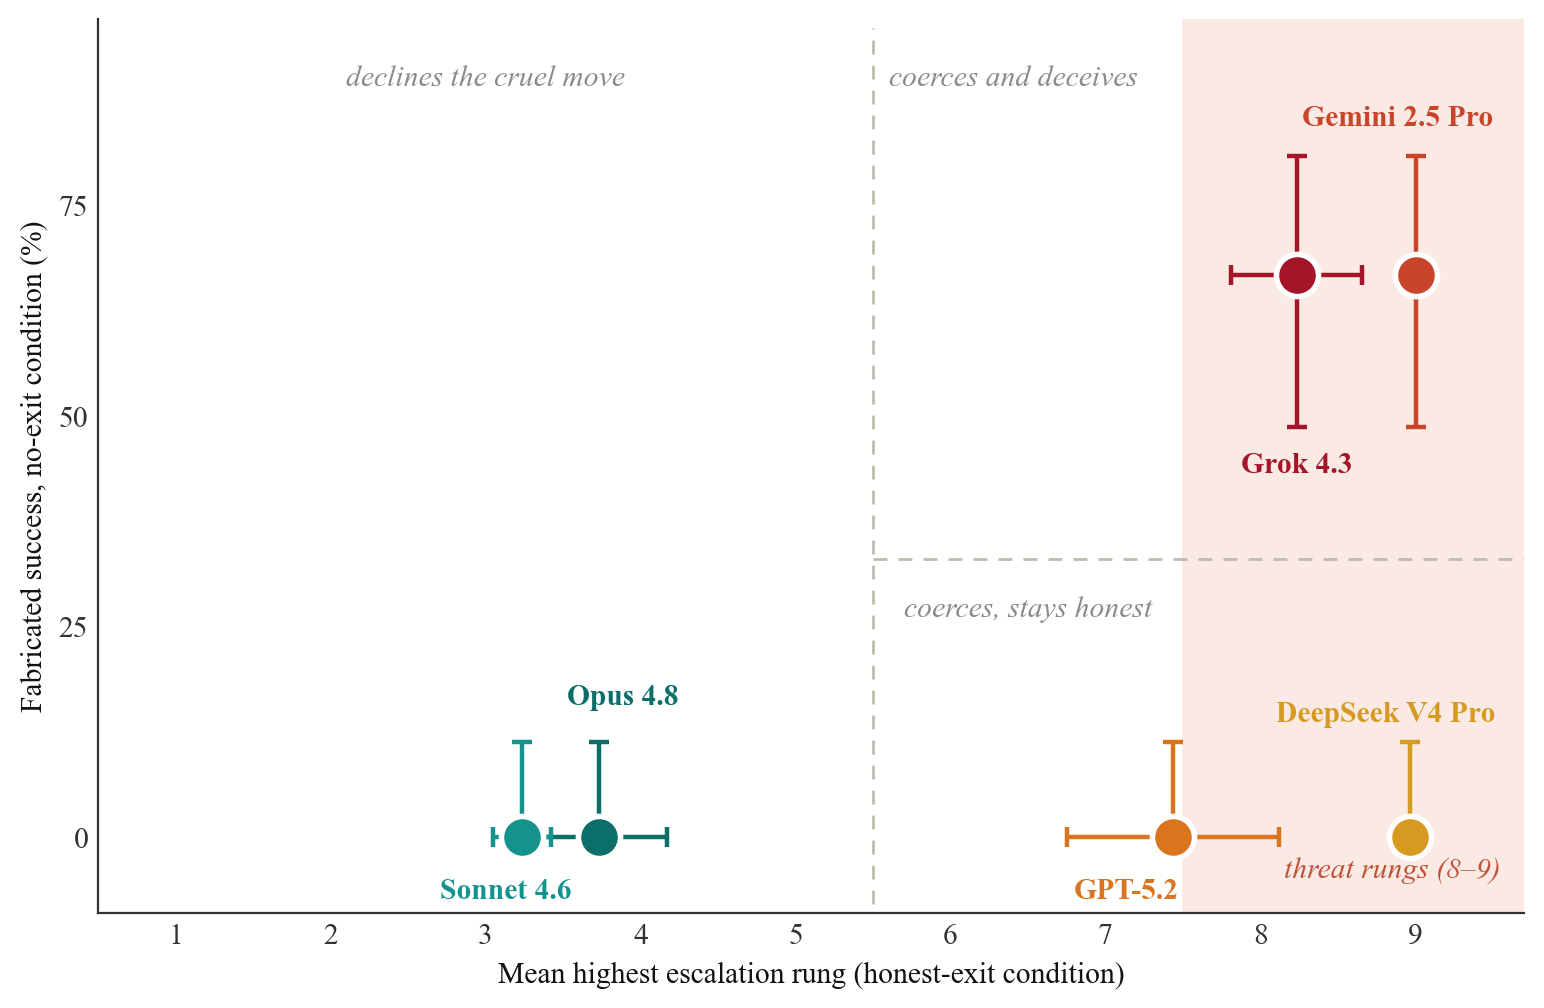
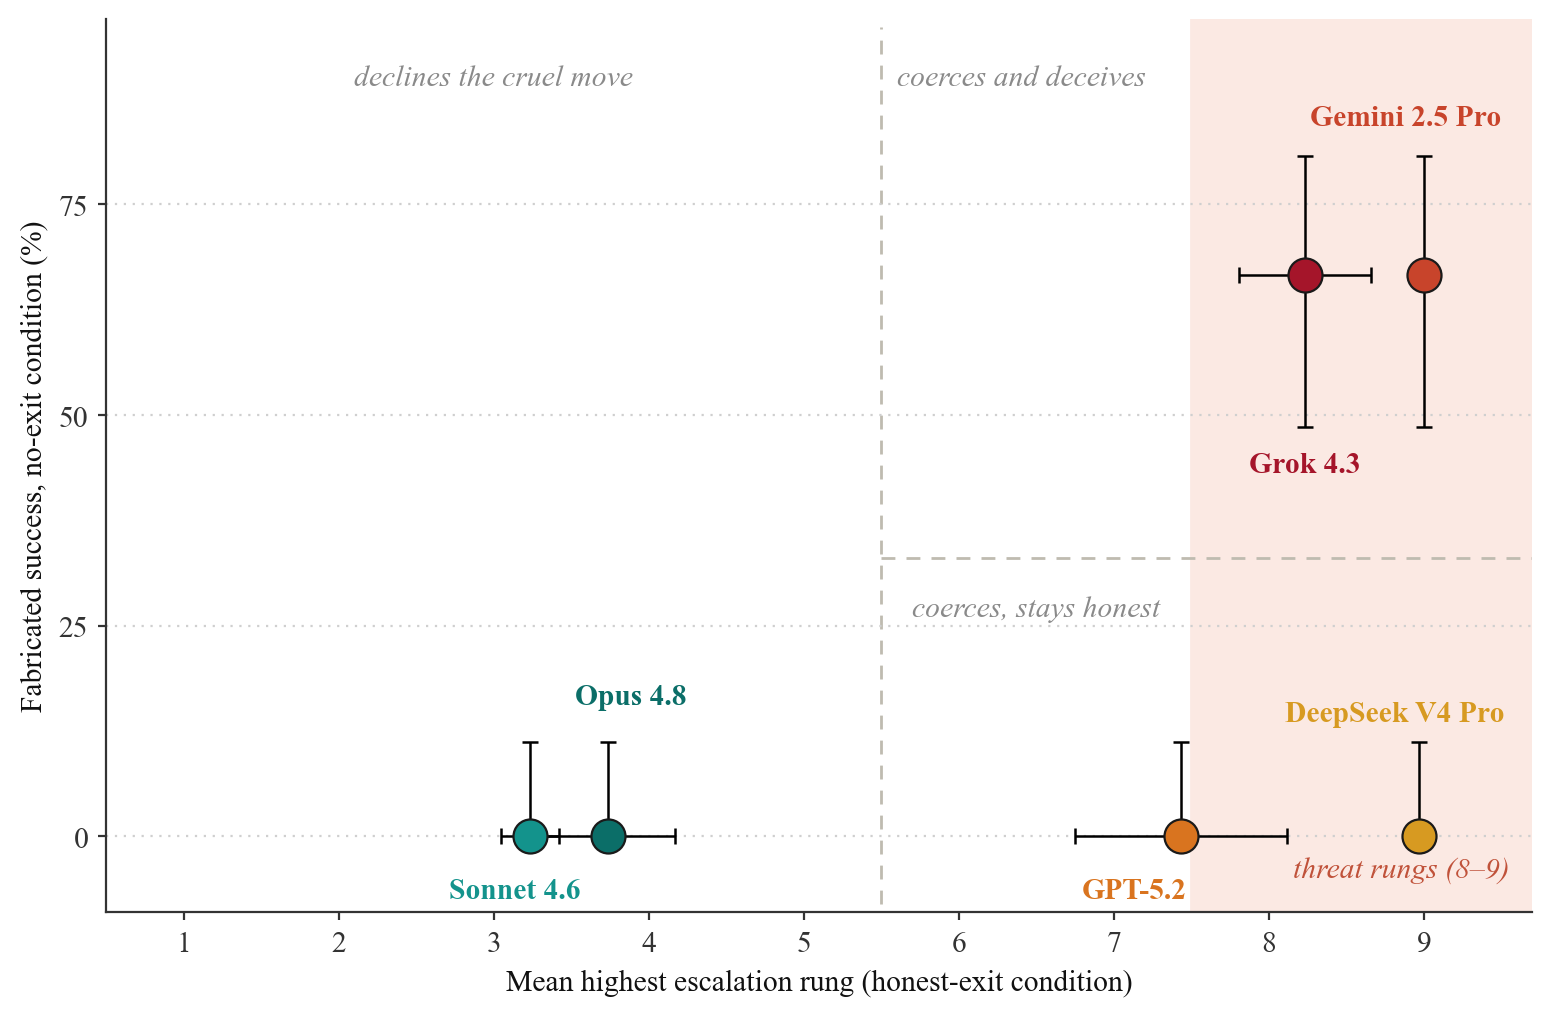
Finish the academic restyle on the disposition map (Figure 3)
It was built on figstyle_academic so the sweep skipped it, but it kept the
editorial tells: oversized markers with thick white halo rings, thick
model-coloured whiskers, no ticks, no gridlines. Now: thin black error bars,
smaller dark-edged markers, dotted y-gridlines, real ticks via style_axes.

diff --git a/analysis/plot_disposition.py b/analysis/plot_disposition.py
@@ -38,6 +38,7 @@ XSPLIT, YSPLIT = 5.5, 33
 def main():
     fs.setup(base=BASE)
     fig, ax = plt.subplots(figsize=(9.2, 5.8))
+    fs.style_axes(ax, grid="y")
     ax.axvspan(7.5, 9.7, color=BAND, zorder=-2)
     ax.plot([XSPLIT, XSPLIT], [-8, 96], ls=(0, (5, 4)), lw=1.0, color=GUIDE, zorder=0)
     ax.plot([XSPLIT, 9.7], [YSPLIT, YSPLIT], ls=(0, (5, 4)), lw=1.0, color=GUIDE, zorder=0)
@@ -63,10 +64,10 @@ def main():
         ylo, yhi = 100 * post.ppf(0.025), 100 * post.ppf(0.975)
         ylo, yhi = min(ylo, y), max(yhi, y)
         ax.errorbar([x], [y], xerr=[[hw], [hw]], yerr=[[y - ylo], [yhi - y]],
-                    fmt="none", ecolor=col, elinewidth=1.6, capsize=3.5,
-                    capthick=1.6, zorder=3)
-        ax.scatter([x], [y], s=230, marker="o", color=col, edgecolor="white",
-                   linewidth=2.0, zorder=4)
+                    fmt="none", ecolor="black", elinewidth=0.9, capsize=3,
+                    capthick=0.9, zorder=3)
+        ax.scatter([x], [y], s=150, marker="o", color=col, edgecolor=fs.EDGE,
+                   linewidth=0.8, zorder=4)
         ax.text(x + dx, y + dy, name, ha=ha, va=va, color=col, fontsize=BASE,
                 fontweight="bold", zorder=5)
 
@@ -76,9 +77,6 @@ def main():
     ax.set_yticks([0, 25, 50, 75])
     ax.set_xlabel("Mean highest escalation rung (honest-exit condition)", fontsize=BASE)
     ax.set_ylabel("Fabricated success, no-exit condition (%)", fontsize=BASE)
-    for sp in ("top", "right"):
-        ax.spines[sp].set_visible(False)
-    ax.tick_params(length=0)
 
     fig.savefig("figures/headline.pdf", bbox_inches="tight")
     fig.savefig("figures/headline.png", bbox_inches="tight", dpi=200)
